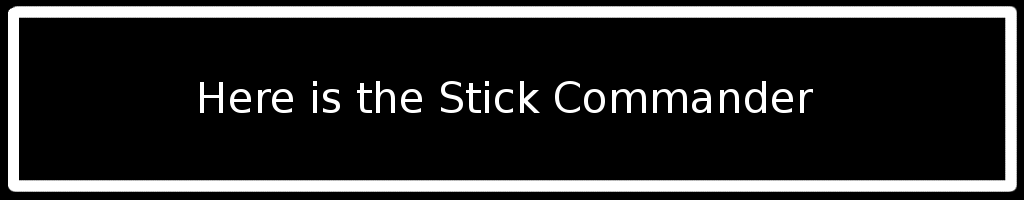
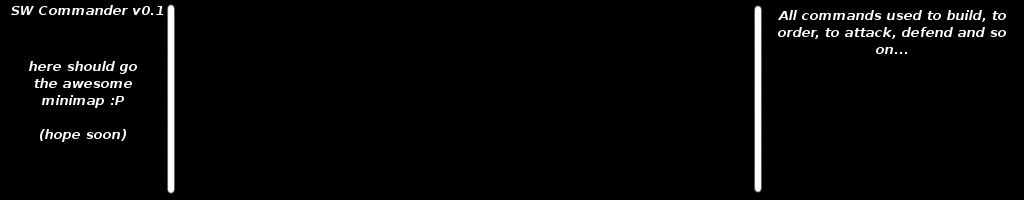
Several upgrades. Dynamic load/unload unit.

Changed region(s): [[0.0, 0.03, 1.0, 0.96], [0.8438, 0.24, 0.875, 0.27]]

diff --git a/camera.py b/camera.py
@@ -9,8 +9,8 @@ class Camera(DirectObject.DirectObject):
     def __init__(self):
         self.scrollingSpeed = 25
         base.disableMouse()
-        camera.setY(-25)
-        camera.setP(15)
+        camera.setP(-90)
+        camera.setZ(30)
         self.accept('wheel_up',self.cameraZoomIn)
         self.accept('wheel_down',self.cameraZoomOut)
         taskMgr.add(self.cameraMovements,"cameraMovements")
@@ -21,25 +21,25 @@ class Camera(DirectObject.DirectObject):
         render.setLight(self.cameraLight)
         
     def cameraZoomIn(self):
-        camera.setY(camera, 1)
+        camera.setY(camera, 2)
     def cameraZoomOut(self):
-        camera.setY(camera, -1)
+        camera.setY(camera, -2)
     def cameraMovements(self, task):
         if base.mouseWatcherNode.hasMouse():
             x = base.mouseWatcherNode.getMouseX()
             y = base.mouseWatcherNode.getMouseY()
             self.dt = globalClock.getDt() * self.scrollingSpeed
-        if x < -0.97:
-            camera.setX(camera, -self.dt)
-        if x > 0.97:
-            camera.setX(camera, self.dt)
-        if y > 0.97:
-            camera.setZ(camera, self.dt)
-        if y < -0.97:
-            camera.setZ(camera, -self.dt)
-        
-        self.cameraLight.setX(camera.getX())
-        self.cameraLight.setY(camera.getY())
-        self.cameraLight.setZ(camera.getZ())
+            if x < -0.97:
+                camera.setX(camera, -self.dt)
+            if x > 0.97:
+                camera.setX(camera, self.dt)
+            if y > 0.97:
+                camera.setZ(camera, self.dt)
+            if y < -0.97:
+                camera.setZ(camera, -self.dt)
+            
+            self.cameraLight.setX(camera.getX())
+            self.cameraLight.setY(camera.getY())
+            self.cameraLight.setZ(camera.getZ())
         
         return task.cont

diff --git a/map.py b/map.py
@@ -6,25 +6,36 @@ from pandac.PandaModules import *
 from direct.showbase import *
 import sys,os
 
+import army
+
 class Map(DirectObject.DirectObject):
     def __init__(self):
-        pass
-    def setupMap(self):
-        #carico il modello e riparento
-        mappa = loader.loadModel("maps/data/demo.egg")
-        mappa.setP(90)
-        mappa.reparentTo(render)
+        self.army = army.Army()
         
+    def setupMap(self):
         #carico la skybox e riparento
-        skybox = loader.loadModel("maps/data/skybox.egg")
-        skybox.setScale(512)
-        skybox.reparentTo(render)
+        self.skybox = loader.loadModel("maps/data/skybox.egg")
+        self.skybox.setScale(16)
+        self.skybox.reparentTo(render)
+        
+        #carico il modello e riparento
+        self.mappa = loader.loadModel("maps/data/demo.egg")
+        self.mappa.reparentTo(render)
+        
+        self.start1 = self.mappa.find("**/Player1_start")
+        self.army.setupStartUnits(self.start1)
+        
+    def destroyMap(self):
+        self.army.removeAll()
+        self.skybox.remove()
+        self.mappa.remove()
+        self.start1.remove()
         
         
     def setupShaders(self):
-        #render.setShaderAuto()
+        render.setShaderAuto()
         #setupfilters and shaders
         self.filters = CommonFilters(base.win, base.cam)
-        self.filters.setCartoonInk(separation=1.5)
+        self.filters.setCartoonInk(separation=1.2)
         #self.filters.setBloom(size="small")
         #render.setAttrib(LightRampAttrib.makeHdr0())

diff --git a/main.py b/main.py
@@ -15,7 +15,8 @@ import eventsManager
 
 #fullscreen e grandezza finestra
 loadPrcFileData("", """fullscreen 1
-win-size 1024 768""")
+win-size 1024 768
+text-encoding utf8""")
 
 class StickWarArena(ShowBase):
     
@@ -25,20 +26,33 @@ class StickWarArena(ShowBase):
         #base event handling
         self.accept("exitGame", self.exitGame)
         self.accept("startSPDemo", self.startSPDemo)
+        self.accept("escape", self.mainMenu)
         ###impostazioni iniziali
         
         #event management
         self.myEventMgr = eventsManager.EventsManager()
-        #gui management
+        #gui, map, camera and other managements
         self.myGui = gui.Gui()
+        self.myMap = map.Map()
+        self.myCamera = camera.Camera()
+        
+        #start point
         self.myGui.createMainMenu()
+        self.myMap.setupShaders()
+    
+    def mainMenu(self):
+        self.myMap.destroyMap()
+        self.myGui.destroyCommander()
+        self.myGui.createMainMenu()
+        
+        print "exiting... start log ----------------------------------------------"
+        self.myMap.army.ls()
+        render.ls()
     
     def startSPDemo(self):
         self.myGui.destroyMainMenu()
-        self.myCamera = camera.Camera()        
-        self.myMap = map.Map()
         self.myMap.setupMap()
-        self.myMap.setupShaders()
+        self.myGui.createCommander()
 
     def exitGame(self):
         sys.exit()

diff --git a/gui.py b/gui.py
@@ -88,4 +88,12 @@ class Gui():
         self.exitButton.remove()
         self.exitButtonGeom.remove()
         
+    def createCommander(self):
+        self.mainCmd = loader.loadModel("images/stick_commander/commander.egg")
+        self.mainCmd.setZ(-0.74)
+        self.mainCmd.reparentTo(aspect2d)
+        
+    def destroyCommander(self):
+        self.mainCmd.remove()
+        
         

diff --git a/unit.py b/unit.py
@@ -7,6 +7,9 @@ from direct.showbase import *
 import sys,os
 
 class Unit(DirectObject.DirectObject):
-    def __init__(self, file, x, y):
+    def __init__(self, model, x=0, y=0, z=0):
+        self.node = loader.loadModel("models/" + model + ".egg")
+        self.node.setPos(x,y,z)
+        self.node.reparentTo(render)
         pass
-        
+    
